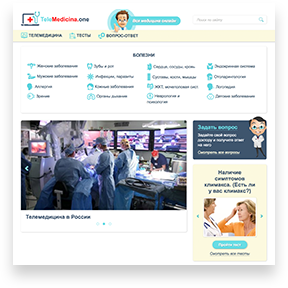
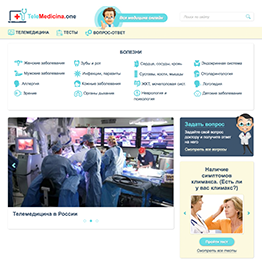
CSS complete

diff --git a/src/index.html b/src/index.html
@@ -244,9 +244,17 @@
         <div class="wrap">
             <h1 class="cases__title">КЕЙСЫ</h1>
             <div class="cases__plates">
-                <img src="img/case_1.png" alt="" class="plates__item">
-                <img src="img/case_2.png" alt="" class="plates__item">
-                <img src="img/case_3.png" alt="" class="plates__item">
+                <div class="plates__item">
+                    <img src="img/case_1.png" alt="">
+                </div>
+
+                <div class="plates__item">
+                    <img src="img/case_2.png" alt="">
+                </div>
+
+                <div class="plates__item">
+                    <img src="img/case_3.png" alt="">
+                </div>
             </div>
         </div>
     </div>
@@ -279,16 +287,16 @@
             <div class="contacts__info">
                 <h1 class="contacts__title">КОНТАКТЫ</h1>
                 <div class="contacts__block">
-                    <a class="c-link" href="tel:74991120777">+7 (499) 112-0-777</a>
-                    <a href="#" class="c-link">t.me/adamantmg</a>
-                    <a href="#" class="c-link">shtab@adamant.ru</a>
+                    <a class="c-link" href="tel:+74991120777">+7 (499) 112-0-777</a>
+                    <a href="http://t.me/adamantmg" class="c-link">t.me/adamantmg</a>
+                    <a href="mailto:shtab@adamant.ru" class="c-link">shtab@adamant.ru</a>
                 </div>
             </div>
 
             <form class="contacts__form c-form" action="" method="post" onsubmit="validateform(this); return false;">
                 <h2 class="c-form__title">
                     ЕСТЬ ВОПРОСЫ?
-                    <a href="#" class="c-link--blue">Можете их задать сейчас</a>
+                    <span class="not-bold blue">МОЖЕТЕ ИХ ЗАДАТЬ СЕЙЧАС</span>
                 </h2>
 
                 <!-- Visual inputs (grouped) -->
@@ -313,7 +321,6 @@
             </form>
         </div>
     </div>
-
 
     <fotoer class="footer">
         <!--<p>

diff --git a/src/css/layout/_partners.scss b/src/css/layout/_partners.scss
@@ -3,9 +3,9 @@
 
     .wrap {
         @include flex(column, flex-start, center);
-        padding: rem(25px) 0;
+        padding: rem(75px) 0;
         padding-bottom: rem(75px);
-        background: url("../img/partners-bg.png") left 7% top -140% no-repeat;
+        background: url("../img/partners-bg.png") left 7% top no-repeat;
     }
 
     &__title {
@@ -13,6 +13,7 @@
     }
 
     &__plates {
+        position: relative;
         @include flex(row, center, flex-start);
         align-self: flex-end;
         flex-wrap: wrap;
@@ -20,12 +21,24 @@
         margin-bottom: rem(75px);
         margin-right: rem(165px);
 
+        &::before {
+            content: "";
+            position: absolute;
+            top: rem(-25px);
+            right: rem(-80px);
+            width: 193%;
+            height: 80%;
+            background: url("../img/pattern.png");
+            z-index: -1;
+        }
+
         .plates__item {
             @include flex(column, center, center);
             width: rem(226px);
             height: rem(75px);
             margin: rem(15px);
             margin-bottom: rem(15px);
+            background: white;
             box-shadow: $shadow-plate;
             
             .item__text {

diff --git a/src/css/layout/_about.scss b/src/css/layout/_about.scss
@@ -1,11 +1,21 @@
 
 .about {
     .wrap {
+        position: relative;
         @include flex(row, flex-end, flex-start);
         padding-top: rem(35px);
         padding-bottom: rem(100px);
-        background: url("../img/about-bg.png") left -55% top -40% no-repeat;
         text-align: left;
+
+        &::before {
+            content: "";
+            position: absolute;
+            top: -4%;
+            left: -23%;
+            width: 100%;
+            height: 580px;
+            background: url("../img/about-bg.png") left top -32% no-repeat;
+        }
     }
 
     &__article {
@@ -19,10 +29,23 @@
     }
 
     &__text {
+        position: relative;
         padding: rem(30px) rem(35px);
         margin-top: rem(80px);
         box-shadow: $shadow-block;
+        background: white;
         text-transform: uppercase;
+
+        &::before {
+            content: "";
+            position: absolute;
+            top: -30px;
+            right: -30px;
+            width: 100%;
+            height: 100%;
+            background: url("../img/pattern.png");
+            z-index: -1;
+        }
 
         p:not(:nth-last-of-type(1)) {
             margin-bottom: rem(25px);

diff --git a/src/css/layout/_services.scss b/src/css/layout/_services.scss
@@ -2,8 +2,30 @@
 .services {
 
     .wrap {
+        position: relative;
         padding: rem(40px) 0;
-        padding-bottom: rem(110px);
+        padding-bottom: rem(75px);
+
+        &::before,
+        &::after {
+            content: "";
+            position: absolute;
+            width: rem(159px);
+            height: rem(430px);
+            background: url("../img/pattern.png");
+            z-index: -2;
+        }
+
+        &::before {
+            left: -5.5%;
+            top: 0;
+        }
+
+        &::after {
+            right: -5.5%;
+            bottom: 0;
+        }
+
     }
 
     &__title {
@@ -16,12 +38,17 @@
         margin-bottom: rem(75px);
 
         .plates__item {
+            position: relative;
             @include flex(column, center, center);
             width: rem(263px);
             height: rem(80px);
             margin: rem(14px);
             margin-bottom: rem(20px);
             border: rem(5px) solid $yellow;
+
+            &::before {
+                @include before-bg($yellow-white);
+            }
             
             .item__text {
                 font-weight: 700;

diff --git a/src/css/layout/_cases.scss b/src/css/layout/_cases.scss
@@ -3,7 +3,7 @@
 
     .wrap {
         padding: rem(55px) 0;
-        padding-bottom: rem(100px);
+        padding-bottom: rem(75px);
     }
 
     &__title {
@@ -12,6 +12,19 @@
 
     &__plates {
         @include flex(row, space-around, flex-start);
+        flex-wrap: wrap;
+
+        .plates__item {
+            position: relative;
+            width: rem(262px);
+            height: rem(262px);
+            box-shadow: $shadow-block;
+
+            &::before {
+                @include before-bg($yellow-light);
+            }
+        }
+
     }
 
 }

diff --git a/src/css/layout/_header.scss b/src/css/layout/_header.scss
@@ -6,7 +6,7 @@
 
     .wrap {
         @include flex(column, flex-start, flex-start);
-        background: url("../img/header-bg.png") right top no-repeat;
+        background: url("../img/header-bg.png") right -13.3% top no-repeat;
         padding-bottom: rem(170px);
     }
 
@@ -14,7 +14,7 @@
         @include flex(row, flex-start, center);
         width: 100%;
         padding-top: rem(30px);
-        margin-bottom: 9.6%;
+        padding-bottom: 9.6%;
     }
 
     &__logo {

diff --git a/src/css/base/_base.scss b/src/css/base/_base.scss
@@ -11,7 +11,21 @@
     padding: 0 rem(15px);
     margin: 0 auto;
     text-align: center;
-    overflow: visible;
+}
+
+body {
+    background: url("../img/bg.png") center repeat-y;
+    
+    &::before { //Fix for body background position-y (padding top)
+        content: "";
+        width: 100%;
+        height: 180px;
+        background: #fff;
+        position: absolute;
+        top:0;
+        display: block;
+        z-index: -1;
+    }
 }
 
 body > div {

diff --git a/src/css/components/_form.scss b/src/css/components/_form.scss
@@ -11,7 +11,7 @@
     max-width: rem(615px);
     padding: rem(32px) rem(30px);
     padding-bottom: rem(40px);
-    background: $grey;
+    background: url("../img/pattern.png");
     //box-shadow: $shadow-form;
     
     @media screen and (max-width: 475px) {
@@ -21,6 +21,7 @@
     }
 
     &__title {
+        width: 100%;
         margin-bottom: rem(30px);
         //border-bottom: rem(1px) solid $grey-light;
 

diff --git a/src/css/layout/_footer.scss b/src/css/layout/_footer.scss
@@ -2,3 +2,14 @@
 // This file contains all styles related to the footer of the site/application.
 // -----------------------------------------------------------------------------
 
+.footer {
+    @include flex(row, center, center);
+    padding: rem(30px) 0;
+    @include font-preset(rem(14px), 400, $black);
+    text-align: center;
+    background: $grey;
+
+    a {
+        margin: 0 rem(42px);
+    }
+}

diff --git a/src/css/abstracts/_mixins.scss b/src/css/abstracts/_mixins.scss
@@ -15,4 +15,13 @@
     color: $color
 }
 
-
+@mixin before-bg($color) { //For ::before element
+    content: "";
+    position: absolute;
+    right: rem(-12px);
+    bottom: rem(-12px);
+    width: 100%;
+    height: 100%;
+    background: $color;
+    z-index: -1;
+}

diff --git a/src/css/components/_buttons.scss b/src/css/components/_buttons.scss
@@ -9,6 +9,7 @@
     border: rem(5px) solid $blue;
     @include font-preset(rem(18px), 700, $blue);
     text-decoration: none;
+    background: white;
     cursor: pointer;
 
     &:hover {

diff --git a/src/css/layout/_contacts.scss b/src/css/layout/_contacts.scss
@@ -3,7 +3,7 @@
 
     .wrap {
         @include flex(row, space-between, flex-start);
-        padding: rem(20px) 0;
+        padding-top: rem(20px);
     }
 
     &__info {
